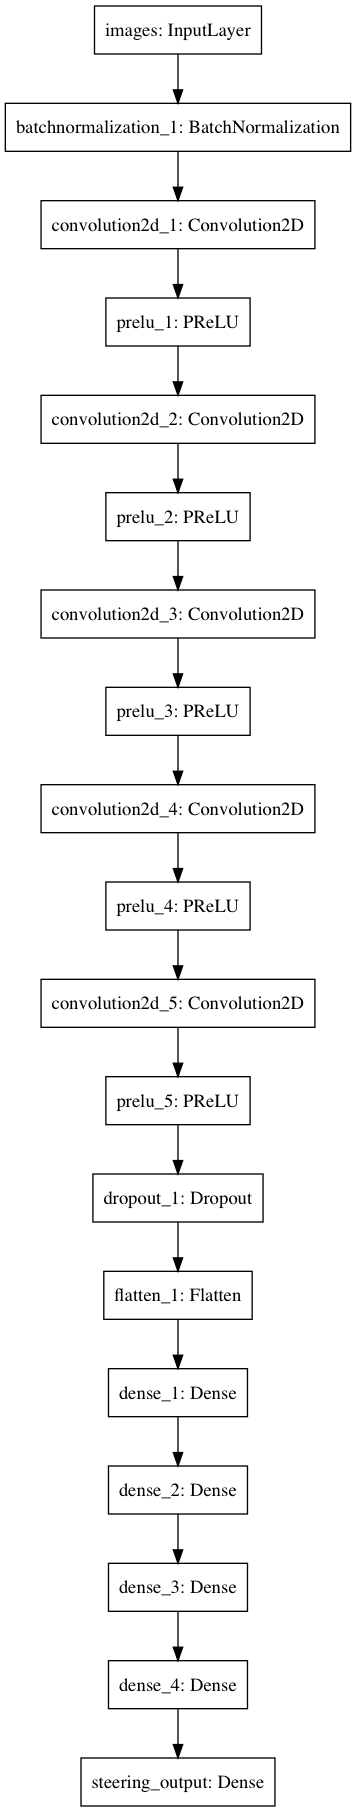
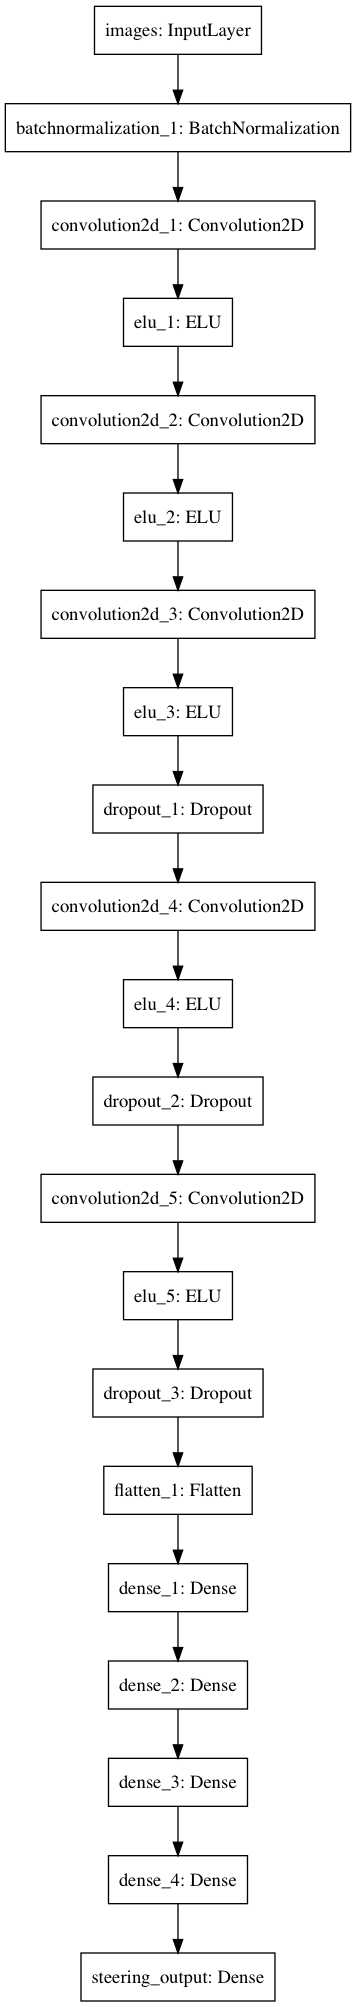
Adapted readme to updated nvidia model.

diff --git a/drive.py b/drive.py
@@ -47,7 +47,7 @@ def telemetry(sid, data):
 
     prediction = model.predict(image_array, batch_size=1, verbose=1)
     steering_angle = prediction[0][0]#[0][0]
-    throttle = 0.2 #prediction[1][0][0]
+    throttle = max(0.1, -0.15/0.05 * abs(steering_angle) + 0.35)
     speed = 0.2 #prediction[2][0][0]
 
     # The driving model currently just outputs a constant throttle. Feel free to edit this.

diff --git a/README.md b/README.md
@@ -81,10 +81,13 @@ The NVidia model consists of the following architecture,
 
 ![nvidia model](images/nvidia_model.png)
 
-Totalling 20,375,820 trainable parameters. We use the mean absolute percentage
+Totalling 8,995,690 trainable parameters. We use the mean absolute percentage
 error as a cost function and [Adamax](https://arxiv.org/pdf/1412.6980.pdf) for
-stochastic optimization. We use a batch size of 100. The model performance in
-terms of mean absolute percentage error is show below.
+stochastic optimization. We use a batch size of 100. We used [Exponentential
+Linear Units](https://arxiv.org/abs/1511.07289) as activation functions and two
+drop out layers to make the model more robust.
+
+The model performance in terms of mean absolute percentage error is show below.
 
 ![nvidia model performance](images/nvidia_model_performance.png)
 
